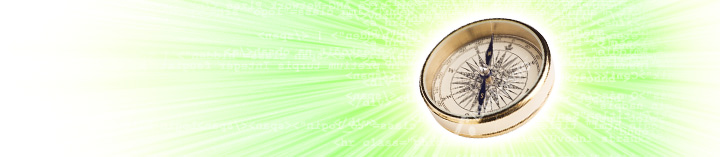
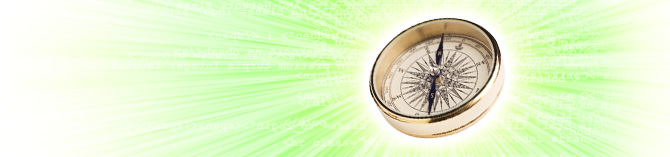
oprava hmenu active, pridany hlavicky (krom index)
git-svn-id: https://svn.bukajuv.net:8090/svn/koldasoft_cz/trunk@117 40ecb9ab-d4a2-264f-abd0-7c774a84dcac

diff --git a/style.css b/style.css
@@ -65,7 +65,7 @@ body {  /* Telo stranky */
 }
 
 #change { /* hlavicka - menici se obrazek */
-  width: 680px;
+  width: 670px;
   height: 157px;
   position: absolute;
   top: 0; right: 0;
@@ -73,6 +73,36 @@ body {  /* Telo stranky */
 
 .mapa-webu #change  {
   background: url('/pictures/headers/mapa_webu.jpg') top right no-repeat;
+}
+.znalosti #change  {
+  background: url('/pictures/headers/znalosti.jpg') top right no-repeat;
+}
+.o-nas #change  {
+  background: url('/pictures/headers/o_nas.jpg') top right no-repeat;
+}
+.cenik #change  {
+  background: url('/pictures/headers/cenik.jpg') top right no-repeat;
+}
+.informace #change  {
+  background: url('/pictures/headers/informace.jpg') top right no-repeat;
+}
+.job #change  {
+  background: url('/pictures/headers/job.jpg') top right no-repeat;
+}
+.kontakt #change  {
+  background: url('/pictures/headers/kontakt.jpg') top right no-repeat;
+}
+.partneri #change  {
+  background: url('/pictures/headers/partneri.jpg') top right no-repeat;
+}
+.pristupnost #change  {
+  background: url('/pictures/headers/pristupnost.jpg') top right no-repeat;
+}
+.reference #change  {
+  background: url('/pictures/headers/reference.jpg') top right no-repeat;
+}
+.nabidka-sluzeb #change  {
+  background: url('/pictures/headers/sluzby.jpg') top right no-repeat;
 }
 
 #skip_menu {  /* Preskoceni menu */
@@ -109,12 +139,12 @@ body {  /* Telo stranky */
   overflow: hidden;
 }
 
-#hmenu .active {  /* Aktivni polozka menu */
-  background: #47d713 url('/pictures/hmenu_button_active.jpg') center bottom no-repeat;
+#hmenu a:hover, #hmenu a:active, #hmenu a:focus {  /* Aktivni polozka menu */
+  background: #47d713 url('/pictures/hmenu_button_normal.jpg') center bottom no-repeat;
 }
 
-#hmenu a:hover, #hmenu a:active, #hmenu a:focus, #hmenu .active a:hover, #hmenu .active a:active, #hmenu .active a:focus {  /* Aktivni polozka menu */
-  background: #47d713 url('/pictures/hmenu_button_normal.jpg') center bottom no-repeat;
+#hmenu .active a, #hmenu .active a:hover, #hmenu .active a:active, #hmenu .active a:focus {  /* Aktivni polozka menu */
+  background: #47d713 url('/pictures/hmenu_button_active.jpg') center bottom no-repeat;
 }
 
 #hmenu h4, #breadcrumb h4 {  /* skryte nadpisy */
